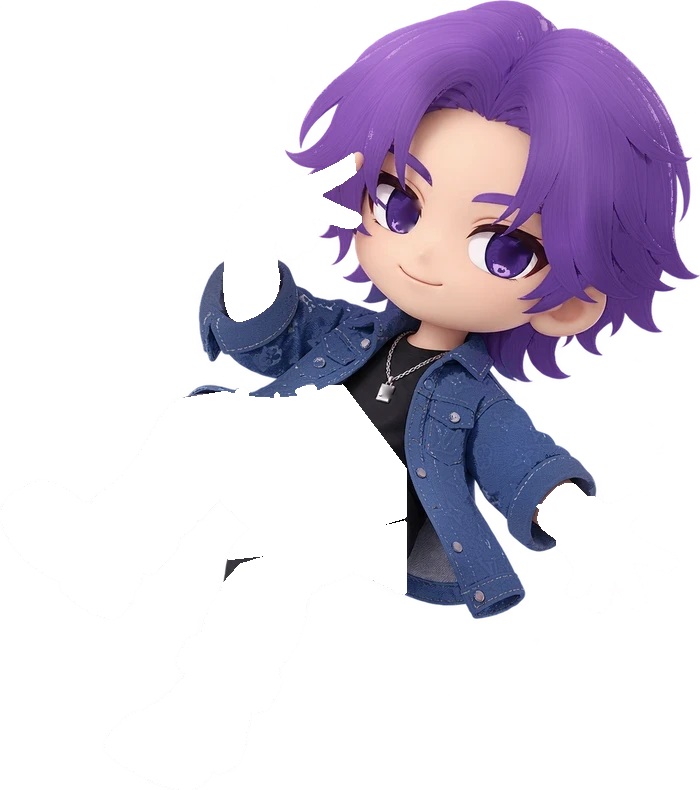
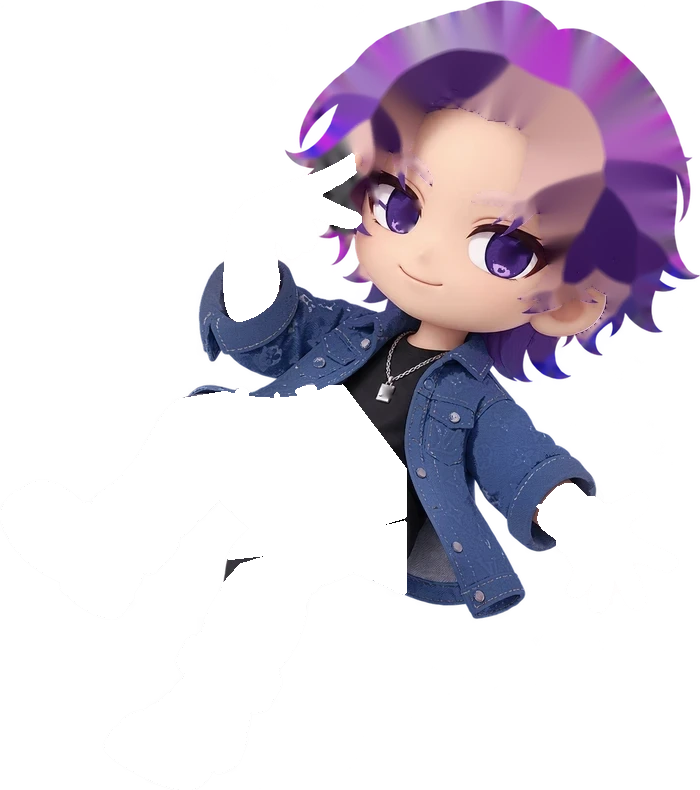
feat: add hair-swing animation to both chibi characters
Segment the hair out of the flat body render for both variants by
color classification (same technique as variant b's existing limb
rig), inpaint the hole, and rig the cutout as a new topmost part
with its own swing origin near the crown, independent of head/body
motion.

Changed region(s): [[0.42, 0.0, 0.99, 0.4861], [0.51, 0.3342, 0.54, 0.3646]]

diff --git a/src/data/chibi.ts b/src/data/chibi.ts
@@ -12,6 +12,11 @@
  * out and its hole filled harmonically; the pupil rides on a smooth backdrop
  * (a brown disc for `a`, a purple iris for `b`), which is what makes the repair
  * invisible. See scratchpad/build-eyes.mjs.
+ *
+ * Both also carry a hair part, segmented out of the flat body render by the
+ * same color-classification technique as `b`'s limbs, with the hole inpainted.
+ * It renders after `body` (topmost) and swings on its own origin near the
+ * crown, independently of the head. See scratchpad/build_hair.py.
  */
 
 export type RigPart = {
@@ -72,6 +77,7 @@ const A: ChibiVariant = {
     { src: 'armBack', origin: '64.5% 52.3%', amp: 4, dur: '4.7s', delay: '-2.4s' },
     { src: 'armFront', origin: '40.6% 40.3%', amp: 3.4, dur: '3.9s', delay: '-1.2s' },
     { src: 'body' },
+    { src: 'hair', origin: '58% 20%', amp: 3, dur: '5.4s', delay: '-2.9s' },
   ],
   eyes: [
     { box: [50.859, 24.417, 6.95, 6.765], pupil: [15.294, 11.494, 72.941, 79.31], travel: [11.765, 9.195] },
@@ -89,9 +95,10 @@ const B: ChibiVariant = {
     { src: 'under' },
     { src: 'legBack', origin: '45.1% 55.5%', amp: 1.9, dur: '6.1s', delay: '-2.7s' },
     { src: 'legFront', origin: '50.5% 70.3%', amp: 2.3, dur: '5.3s', delay: '-0.9s' },
-    { src: 'armBack', origin: '42.8% 30.0%', amp: 2.1, dur: '4.3s', delay: '-3.1s' },
-    { src: 'armFront', origin: '79.5% 64.1%', amp: 3.1, dur: '3.7s', delay: '-1.7s' },
+    { src: 'armBack', origin: '42.8% 30.0%', amp: 5.6, dur: '3.6s', delay: '-3.1s' },
+    { src: 'armFront', origin: '79.5% 64.1%', amp: 6.4, dur: '3.1s', delay: '-1.7s' },
     { src: 'body' },
+    { src: 'hair', origin: '65% 10%', amp: 3.4, dur: '4.8s', delay: '-1.4s' },
   ],
   eyes: [
     { box: [55.268, 23.669, 4.713, 5.651], pupil: [29.412, 23.188, 78.431, 79.71], travel: [17.647, 8.696] },
